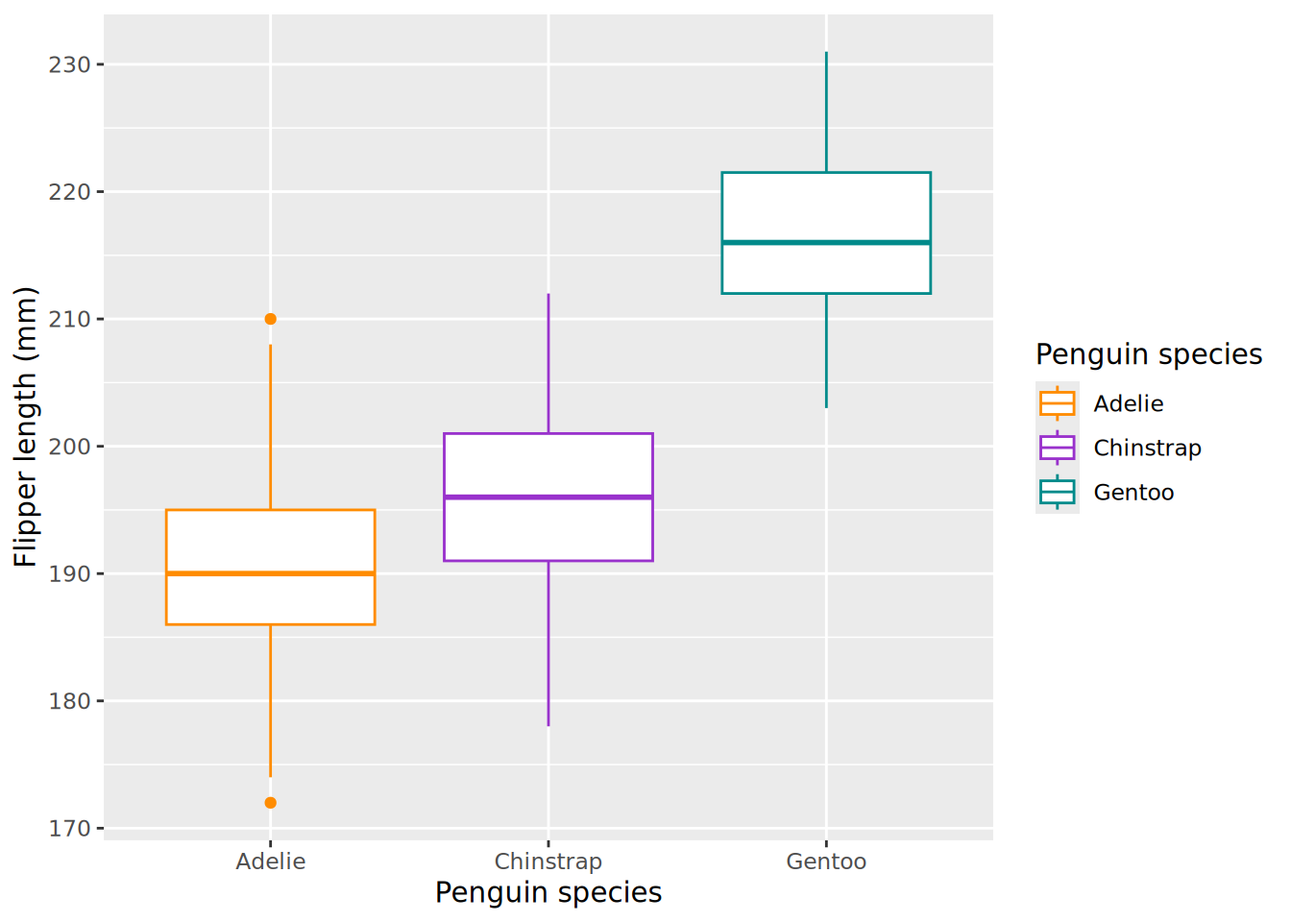
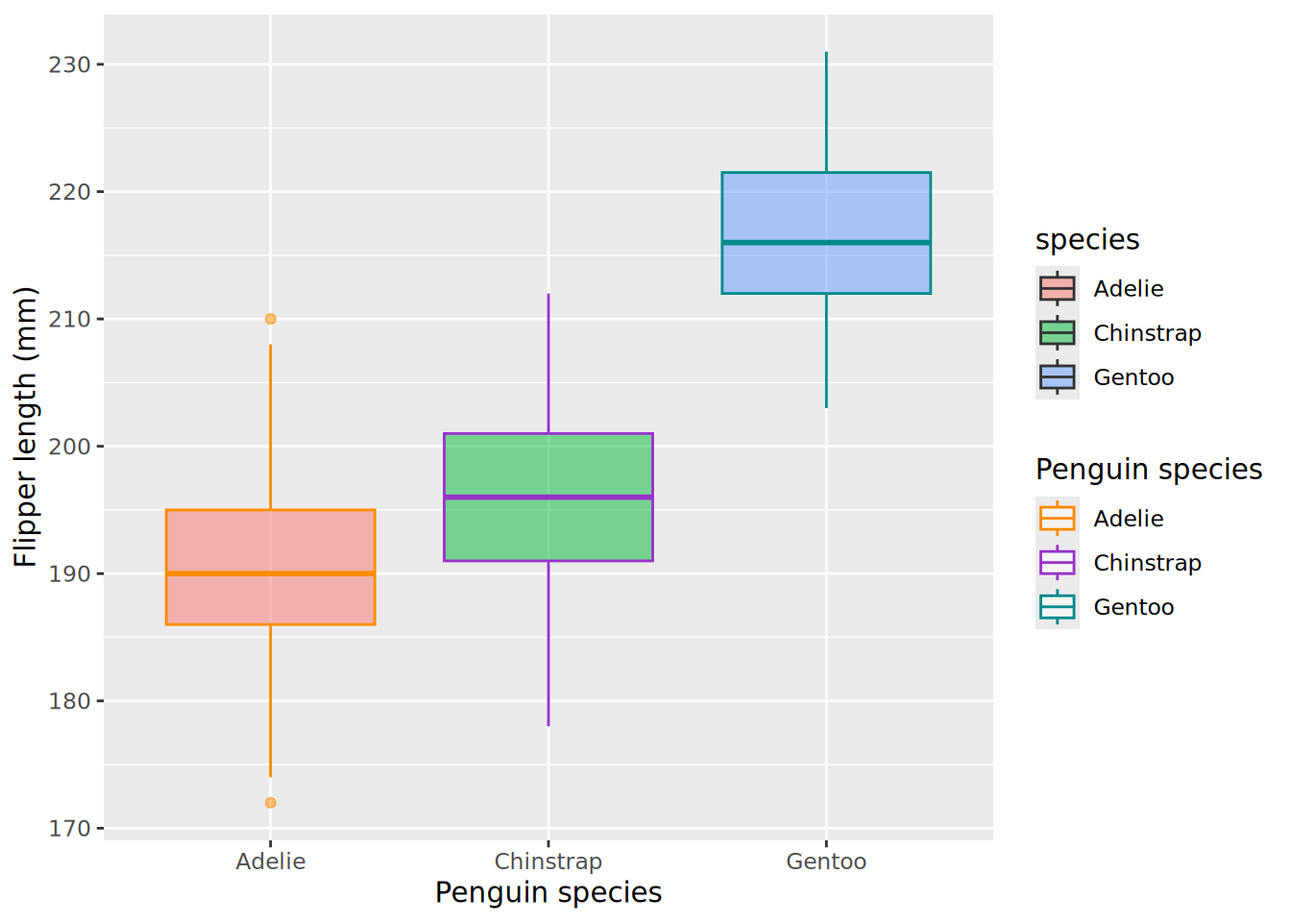
Built site for gh-pages

diff --git a/introtoR.html b/introtoR.html
@@ -222,7 +222,7 @@ pre > code.sourceCode > span > a:first-child::before { text-decoration: underlin
   <li><a href="#creating-a-document-to-write-code-in" id="toc-creating-a-document-to-write-code-in" class="nav-link" data-scroll-target="#creating-a-document-to-write-code-in">Creating a document to write code in</a></li>
   <li><a href="#taking-a-look-at-our-penguin-data" id="toc-taking-a-look-at-our-penguin-data" class="nav-link" data-scroll-target="#taking-a-look-at-our-penguin-data">Taking a look at our penguin data</a></li>
   <li><a href="#removing-na-values-with-drop_na" id="toc-removing-na-values-with-drop_na" class="nav-link" data-scroll-target="#removing-na-values-with-drop_na">Removing N/A values with <code>drop_na()</code></a></li>
-  <li><a href="#creating-plots-with-ggplot-1" id="toc-creating-plots-with-ggplot-1" class="nav-link" data-scroll-target="#creating-plots-with-ggplot-1">Creating plots with ggplot</a></li>
+  <li><a href="#creating-plots-with-ggplot2" id="toc-creating-plots-with-ggplot2" class="nav-link" data-scroll-target="#creating-plots-with-ggplot2">Creating plots with ggplot2</a></li>
   <li><a href="#ggplot-components" id="toc-ggplot-components" class="nav-link" data-scroll-target="#ggplot-components">ggplot() components</a></li>
   <li><a href="#example-creating-a-scatterplot" id="toc-example-creating-a-scatterplot" class="nav-link" data-scroll-target="#example-creating-a-scatterplot">Example: creating a scatterplot</a></li>
   <li><a href="#example-creating-a-boxplot" id="toc-example-creating-a-boxplot" class="nav-link" data-scroll-target="#example-creating-a-boxplot">Example: creating a boxplot</a></li>
@@ -463,7 +463,7 @@ $ year              &lt;int&gt; 2007, 2007, 2007, 2007, 2007, 2007, 2007, 2007, 
 </section>
 <section id="removing-na-values-with-drop_na" class="level3">
 <h3 class="anchored" data-anchor-id="removing-na-values-with-drop_na">Removing N/A values with <code>drop_na()</code></h3>
-<p>We’ve seen some N/A values in the raw data. We can remove these with the <code>drop_na()</code> function.</p>
+<p>We can see some N/A values in the raw data above. We can remove these with the <code>drop_na()</code> function.</p>
 <div class="quarto-figure quarto-figure-center">
 <figure class="figure">
 <p><img src="naniar.jpg" class="img-fluid quarto-figure quarto-figure-center figure-img"></p>
@@ -471,28 +471,23 @@ $ year              &lt;int&gt; 2007, 2007, 2007, 2007, 2007, 2007, 2007, 2007, 
 </div>
 <div class="cell">
 <div class="sourceCode cell-code" id="cb21"><pre class="sourceCode r code-with-copy"><code class="sourceCode r"><span id="cb21-1"><a href="#cb21-1" aria-hidden="true" tabindex="-1"></a>penguins_nafree <span class="ot">&lt;-</span> <span class="fu">drop_na</span>(penguins)</span>
-<span id="cb21-2"><a href="#cb21-2" aria-hidden="true" tabindex="-1"></a>penguins_nafree</span></code><button title="Copy to Clipboard" class="code-copy-button"><i class="bi"></i></button></pre></div>
+<span id="cb21-2"><a href="#cb21-2" aria-hidden="true" tabindex="-1"></a><span class="fu">glimpse</span>(penguins_nafree)</span></code><button title="Copy to Clipboard" class="code-copy-button"><i class="bi"></i></button></pre></div>
 <div class="cell-output cell-output-stdout">
-<pre><code># A tibble: 333 × 8
-   species island    bill_length_mm bill_depth_mm flipper_length_mm body_mass_g
-   &lt;fct&gt;   &lt;fct&gt;              &lt;dbl&gt;         &lt;dbl&gt;             &lt;int&gt;       &lt;int&gt;
- 1 Adelie  Torgersen           39.1          18.7               181        3750
- 2 Adelie  Torgersen           39.5          17.4               186        3800
- 3 Adelie  Torgersen           40.3          18                 195        3250
- 4 Adelie  Torgersen           36.7          19.3               193        3450
- 5 Adelie  Torgersen           39.3          20.6               190        3650
- 6 Adelie  Torgersen           38.9          17.8               181        3625
- 7 Adelie  Torgersen           39.2          19.6               195        4675
- 8 Adelie  Torgersen           41.1          17.6               182        3200
- 9 Adelie  Torgersen           38.6          21.2               191        3800
-10 Adelie  Torgersen           34.6          21.1               198        4400
-# ℹ 323 more rows
-# ℹ 2 more variables: sex &lt;fct&gt;, year &lt;int&gt;</code></pre>
+<pre><code>Rows: 333
+Columns: 8
+$ species           &lt;fct&gt; Adelie, Adelie, Adelie, Adelie, Adelie, Adelie, Adel…
+$ island            &lt;fct&gt; Torgersen, Torgersen, Torgersen, Torgersen, Torgerse…
+$ bill_length_mm    &lt;dbl&gt; 39.1, 39.5, 40.3, 36.7, 39.3, 38.9, 39.2, 41.1, 38.6…
+$ bill_depth_mm     &lt;dbl&gt; 18.7, 17.4, 18.0, 19.3, 20.6, 17.8, 19.6, 17.6, 21.2…
+$ flipper_length_mm &lt;int&gt; 181, 186, 195, 193, 190, 181, 195, 182, 191, 198, 18…
+$ body_mass_g       &lt;int&gt; 3750, 3800, 3250, 3450, 3650, 3625, 4675, 3200, 3800…
+$ sex               &lt;fct&gt; male, female, female, female, male, female, male, fe…
+$ year              &lt;int&gt; 2007, 2007, 2007, 2007, 2007, 2007, 2007, 2007, 2007…</code></pre>
 </div>
 </div>
 </section>
-<section id="creating-plots-with-ggplot-1" class="level3">
-<h3 class="anchored" data-anchor-id="creating-plots-with-ggplot-1">Creating plots with ggplot</h3>
+<section id="creating-plots-with-ggplot2" class="level3">
+<h3 class="anchored" data-anchor-id="creating-plots-with-ggplot2">Creating plots with ggplot2</h3>
 <p><code>ggplot()</code> is a function that creates plots.</p>
 <p>Like a piece of art, we start with a <strong>base canvas</strong> where we set up our framework. We then use a <code>+</code> symbol to <strong>add layers</strong> on top.</p>
 <div class="quarto-figure quarto-figure-center">
@@ -506,7 +501,7 @@ $ year              &lt;int&gt; 2007, 2007, 2007, 2007, 2007, 2007, 2007, 2007, 
 <p>Every ggplot has three components:</p>
 <ul>
 <li><code>data</code> - your filtered data, ready for visualisation.</li>
-<li><code>aes</code>thetic mappings - this defines <strong>which variables</strong> <strong>we plot.</strong></li>
+<li><code>aes</code>thetic mappings - this defines <strong>which variables</strong> <strong>we plot</strong>.</li>
 <li><code>geom</code> layer(s) - this defines how we <strong>visualise the observations</strong>.</li>
 </ul>
 <div class="quarto-figure quarto-figure-center">
@@ -537,7 +532,7 @@ $ year              &lt;int&gt; 2007, 2007, 2007, 2007, 2007, 2007, 2007, 2007, 
 <p><strong>Adding a geom layer:</strong></p>
 <div class="cell">
 <div class="sourceCode cell-code" id="cb24"><pre class="sourceCode r code-with-copy"><code class="sourceCode r"><span id="cb24-1"><a href="#cb24-1" aria-hidden="true" tabindex="-1"></a><span class="fu">ggplot</span>(<span class="at">data =</span> penguins_nafree, <span class="fu">aes</span>(<span class="at">x =</span> bill_length_mm, <span class="at">y =</span> bill_depth_mm)) <span class="sc">+</span></span>
-<span id="cb24-2"><a href="#cb24-2" aria-hidden="true" tabindex="-1"></a>  <span class="fu">geom_point</span>(<span class="at">size =</span> <span class="dv">2</span>) </span></code><button title="Copy to Clipboard" class="code-copy-button"><i class="bi"></i></button></pre></div>
+<span id="cb24-2"><a href="#cb24-2" aria-hidden="true" tabindex="-1"></a>  <span class="fu">geom_point</span>(<span class="at">size =</span> <span class="dv">2</span>) <span class="co">#geom_point() creates a scatterplot</span></span></code><button title="Copy to Clipboard" class="code-copy-button"><i class="bi"></i></button></pre></div>
 <div class="cell-output-display">
 <div>
 <figure class="figure">
@@ -549,7 +544,7 @@ $ year              &lt;int&gt; 2007, 2007, 2007, 2007, 2007, 2007, 2007, 2007, 
 <p><strong>Adding point colour and shape by species:</strong></p>
 <div class="cell">
 <div class="sourceCode cell-code" id="cb25"><pre class="sourceCode r code-with-copy"><code class="sourceCode r"><span id="cb25-1"><a href="#cb25-1" aria-hidden="true" tabindex="-1"></a><span class="fu">ggplot</span>(<span class="at">data =</span> penguins_nafree, <span class="fu">aes</span>(<span class="at">x =</span> bill_length_mm, <span class="at">y =</span> bill_depth_mm)) <span class="sc">+</span></span>
-<span id="cb25-2"><a href="#cb25-2" aria-hidden="true" tabindex="-1"></a>  <span class="fu">geom_point</span>(<span class="fu">aes</span>(<span class="at">color =</span> species, <span class="at">shape =</span> species),<span class="at">size =</span> <span class="dv">2</span>) </span></code><button title="Copy to Clipboard" class="code-copy-button"><i class="bi"></i></button></pre></div>
+<span id="cb25-2"><a href="#cb25-2" aria-hidden="true" tabindex="-1"></a>  <span class="fu">geom_point</span>(<span class="fu">aes</span>(<span class="at">color =</span> species, <span class="at">shape =</span> species),<span class="at">size =</span> <span class="dv">2</span>) <span class="co">#we can add arguments to geom_point() to specify which variables should determine color and shape</span></span></code><button title="Copy to Clipboard" class="code-copy-button"><i class="bi"></i></button></pre></div>
 <div class="cell-output-display">
 <div>
 <figure class="figure">
@@ -585,12 +580,27 @@ $ year              &lt;int&gt; 2007, 2007, 2007, 2007, 2007, 2007, 2007, 2007, 
 </div>
 </div>
 </div>
+<p><strong>Adding a theme:</strong></p>
+<div class="cell">
+<div class="sourceCode cell-code" id="cb28"><pre class="sourceCode r code-with-copy"><code class="sourceCode r"><span id="cb28-1"><a href="#cb28-1" aria-hidden="true" tabindex="-1"></a><span class="fu">ggplot</span>(<span class="at">data =</span> penguins_nafree, <span class="fu">aes</span>(<span class="at">x =</span> bill_length_mm, <span class="at">y =</span> bill_depth_mm)) <span class="sc">+</span></span>
+<span id="cb28-2"><a href="#cb28-2" aria-hidden="true" tabindex="-1"></a>  <span class="fu">geom_point</span>(<span class="fu">aes</span>(<span class="at">color =</span> species, <span class="at">shape =</span> species),<span class="at">size =</span> <span class="dv">2</span>) <span class="sc">+</span></span>
+<span id="cb28-3"><a href="#cb28-3" aria-hidden="true" tabindex="-1"></a>  <span class="fu">scale_color_manual</span>(<span class="at">values =</span> <span class="fu">c</span>(<span class="st">"darkorange"</span>,<span class="st">"darkorchid"</span>,<span class="st">"cyan4"</span>)) <span class="sc">+</span></span>
+<span id="cb28-4"><a href="#cb28-4" aria-hidden="true" tabindex="-1"></a>  <span class="fu">labs</span>(<span class="at">x=</span><span class="st">"Bill length (mm)"</span>, <span class="at">y=</span><span class="st">"Bill depth (mm)"</span>, <span class="at">color =</span> <span class="st">"Penguin species"</span>, <span class="at">shape =</span> <span class="st">"Penguin species"</span>) <span class="sc">+</span></span>
+<span id="cb28-5"><a href="#cb28-5" aria-hidden="true" tabindex="-1"></a>  <span class="fu">theme_classic</span>() <span class="co">#applying the classic theme to remove the background</span></span></code><button title="Copy to Clipboard" class="code-copy-button"><i class="bi"></i></button></pre></div>
+<div class="cell-output-display">
+<div>
+<figure class="figure">
+<p><img src="introtoR_files/figure-html/peng5.1-1.png" class="img-fluid figure-img" width="672"></p>
+</figure>
+</div>
+</div>
+</div>
 </section>
 <section id="example-creating-a-boxplot" class="level3">
 <h3 class="anchored" data-anchor-id="example-creating-a-boxplot">Example: creating a boxplot</h3>
 <p><strong>Creating the base:</strong></p>
 <div class="cell">
-<div class="sourceCode cell-code" id="cb28"><pre class="sourceCode r code-with-copy"><code class="sourceCode r"><span id="cb28-1"><a href="#cb28-1" aria-hidden="true" tabindex="-1"></a><span class="fu">ggplot</span>(<span class="at">data =</span> penguins_nafree, <span class="fu">aes</span>(<span class="at">x =</span> species, <span class="at">y =</span> flipper_length_mm))</span></code><button title="Copy to Clipboard" class="code-copy-button"><i class="bi"></i></button></pre></div>
+<div class="sourceCode cell-code" id="cb29"><pre class="sourceCode r code-with-copy"><code class="sourceCode r"><span id="cb29-1"><a href="#cb29-1" aria-hidden="true" tabindex="-1"></a><span class="fu">ggplot</span>(<span class="at">data =</span> penguins_nafree, <span class="fu">aes</span>(<span class="at">x =</span> species, <span class="at">y =</span> flipper_length_mm))</span></code><button title="Copy to Clipboard" class="code-copy-button"><i class="bi"></i></button></pre></div>
 <div class="cell-output-display">
 <div>
 <figure class="figure">
@@ -601,8 +611,8 @@ $ year              &lt;int&gt; 2007, 2007, 2007, 2007, 2007, 2007, 2007, 2007, 
 </div>
 <p><strong>Adding a geom layer:</strong></p>
 <div class="cell">
-<div class="sourceCode cell-code" id="cb29"><pre class="sourceCode r code-with-copy"><code class="sourceCode r"><span id="cb29-1"><a href="#cb29-1" aria-hidden="true" tabindex="-1"></a><span class="fu">ggplot</span>(<span class="at">data =</span> penguins_nafree, <span class="fu">aes</span>(<span class="at">x =</span> species, <span class="at">y =</span> flipper_length_mm)) <span class="sc">+</span></span>
-<span id="cb29-2"><a href="#cb29-2" aria-hidden="true" tabindex="-1"></a>  <span class="fu">geom_boxplot</span>()</span></code><button title="Copy to Clipboard" class="code-copy-button"><i class="bi"></i></button></pre></div>
+<div class="sourceCode cell-code" id="cb30"><pre class="sourceCode r code-with-copy"><code class="sourceCode r"><span id="cb30-1"><a href="#cb30-1" aria-hidden="true" tabindex="-1"></a><span class="fu">ggplot</span>(<span class="at">data =</span> penguins_nafree, <span class="fu">aes</span>(<span class="at">x =</span> species, <span class="at">y =</span> flipper_length_mm)) <span class="sc">+</span></span>
+<span id="cb30-2"><a href="#cb30-2" aria-hidden="true" tabindex="-1"></a>  <span class="fu">geom_boxplot</span>()</span></code><button title="Copy to Clipboard" class="code-copy-button"><i class="bi"></i></button></pre></div>
 <div class="cell-output-display">
 <div>
 <figure class="figure">
@@ -613,9 +623,9 @@ $ year              &lt;int&gt; 2007, 2007, 2007, 2007, 2007, 2007, 2007, 2007, 
 </div>
 <p><strong>Colouring the boxplots by species:</strong></p>
 <div class="cell">
-<div class="sourceCode cell-code" id="cb30"><pre class="sourceCode r code-with-copy"><code class="sourceCode r"><span id="cb30-1"><a href="#cb30-1" aria-hidden="true" tabindex="-1"></a><span class="fu">ggplot</span>(<span class="at">data =</span> penguins_nafree, <span class="fu">aes</span>(<span class="at">x =</span> species, <span class="at">y =</span> flipper_length_mm)) <span class="sc">+</span></span>
-<span id="cb30-2"><a href="#cb30-2" aria-hidden="true" tabindex="-1"></a>  <span class="fu">geom_boxplot</span>(<span class="fu">aes</span>(<span class="at">color=</span>species)) <span class="sc">+</span></span>
-<span id="cb30-3"><a href="#cb30-3" aria-hidden="true" tabindex="-1"></a>  <span class="fu">scale_color_manual</span>(<span class="at">values =</span> <span class="fu">c</span>(<span class="st">"darkorange"</span>,<span class="st">"darkorchid"</span>,<span class="st">"cyan4"</span>), <span class="at">name =</span> <span class="st">"Species"</span>) </span></code><button title="Copy to Clipboard" class="code-copy-button"><i class="bi"></i></button></pre></div>
+<div class="sourceCode cell-code" id="cb31"><pre class="sourceCode r code-with-copy"><code class="sourceCode r"><span id="cb31-1"><a href="#cb31-1" aria-hidden="true" tabindex="-1"></a><span class="fu">ggplot</span>(<span class="at">data =</span> penguins_nafree, <span class="fu">aes</span>(<span class="at">x =</span> species, <span class="at">y =</span> flipper_length_mm)) <span class="sc">+</span></span>
+<span id="cb31-2"><a href="#cb31-2" aria-hidden="true" tabindex="-1"></a>  <span class="fu">geom_boxplot</span>(<span class="fu">aes</span>(<span class="at">color=</span>species)) <span class="sc">+</span> <span class="co">#this sets the outline colour</span></span>
+<span id="cb31-3"><a href="#cb31-3" aria-hidden="true" tabindex="-1"></a>  <span class="fu">scale_color_manual</span>(<span class="at">values =</span> <span class="fu">c</span>(<span class="st">"darkorange"</span>,<span class="st">"darkorchid"</span>,<span class="st">"cyan4"</span>), <span class="at">name =</span> <span class="st">"Species"</span>) </span></code><button title="Copy to Clipboard" class="code-copy-button"><i class="bi"></i></button></pre></div>
 <div class="cell-output-display">
 <div>
 <figure class="figure">
@@ -624,12 +634,25 @@ $ year              &lt;int&gt; 2007, 2007, 2007, 2007, 2007, 2007, 2007, 2007, 
 </div>
 </div>
 </div>
+<p><strong>Filling the boxplots by species:</strong></p>
+<div class="cell">
+<div class="sourceCode cell-code" id="cb32"><pre class="sourceCode r code-with-copy"><code class="sourceCode r"><span id="cb32-1"><a href="#cb32-1" aria-hidden="true" tabindex="-1"></a><span class="fu">ggplot</span>(<span class="at">data =</span> penguins_nafree, <span class="fu">aes</span>(<span class="at">x =</span> species, <span class="at">y =</span> flipper_length_mm)) <span class="sc">+</span></span>
+<span id="cb32-2"><a href="#cb32-2" aria-hidden="true" tabindex="-1"></a>  <span class="fu">geom_boxplot</span>(<span class="fu">aes</span>(<span class="at">color=</span>species, <span class="at">fill=</span>species), <span class="at">alpha=</span><span class="fl">0.5</span>) <span class="sc">+</span> <span class="co">#fill sets the fill colour at 50% transparency</span></span>
+<span id="cb32-3"><a href="#cb32-3" aria-hidden="true" tabindex="-1"></a>  <span class="fu">scale_color_manual</span>(<span class="at">values =</span> <span class="fu">c</span>(<span class="st">"darkorange"</span>,<span class="st">"darkorchid"</span>,<span class="st">"cyan4"</span>), <span class="at">name =</span> <span class="st">"Species"</span>) </span></code><button title="Copy to Clipboard" class="code-copy-button"><i class="bi"></i></button></pre></div>
+<div class="cell-output-display">
+<div>
+<figure class="figure">
+<p><img src="introtoR_files/figure-html/peng8.1-1.png" class="img-fluid figure-img" width="672"></p>
+</figure>
+</div>
+</div>
+</div>
 <p><strong>Adding axis labels:</strong></p>
 <div class="cell">
-<div class="sourceCode cell-code" id="cb31"><pre class="sourceCode r code-with-copy"><code class="sourceCode r"><span id="cb31-1"><a href="#cb31-1" aria-hidden="true" tabindex="-1"></a><span class="fu">ggplot</span>(<span class="at">data =</span> penguins_nafree, <span class="fu">aes</span>(<span class="at">x =</span> species, <span class="at">y =</span> flipper_length_mm)) <span class="sc">+</span></span>
-<span id="cb31-2"><a href="#cb31-2" aria-hidden="true" tabindex="-1"></a>  <span class="fu">geom_boxplot</span>(<span class="fu">aes</span>(<span class="at">color=</span>species)) <span class="sc">+</span></span>
-<span id="cb31-3"><a href="#cb31-3" aria-hidden="true" tabindex="-1"></a>  <span class="fu">scale_color_manual</span>(<span class="at">values =</span> <span class="fu">c</span>(<span class="st">"darkorange"</span>,<span class="st">"darkorchid"</span>,<span class="st">"cyan4"</span>), <span class="at">name =</span> <span class="st">"Penguin species"</span>) <span class="sc">+</span></span>
-<span id="cb31-4"><a href="#cb31-4" aria-hidden="true" tabindex="-1"></a>  <span class="fu">labs</span>(<span class="at">x=</span><span class="st">"Penguin species"</span>, <span class="at">y=</span><span class="st">"Flipper length (mm)"</span>) </span></code><button title="Copy to Clipboard" class="code-copy-button"><i class="bi"></i></button></pre></div>
+<div class="sourceCode cell-code" id="cb33"><pre class="sourceCode r code-with-copy"><code class="sourceCode r"><span id="cb33-1"><a href="#cb33-1" aria-hidden="true" tabindex="-1"></a><span class="fu">ggplot</span>(<span class="at">data =</span> penguins_nafree, <span class="fu">aes</span>(<span class="at">x =</span> species, <span class="at">y =</span> flipper_length_mm)) <span class="sc">+</span></span>
+<span id="cb33-2"><a href="#cb33-2" aria-hidden="true" tabindex="-1"></a>  <span class="fu">geom_boxplot</span>(<span class="fu">aes</span>(<span class="at">color=</span>species, <span class="at">fill=</span>species), <span class="at">alpha=</span><span class="fl">0.5</span>) <span class="sc">+</span> <span class="co">#fill sets the fill colour at 50% transparency</span></span>
+<span id="cb33-3"><a href="#cb33-3" aria-hidden="true" tabindex="-1"></a>  <span class="fu">scale_color_manual</span>(<span class="at">values =</span> <span class="fu">c</span>(<span class="st">"darkorange"</span>,<span class="st">"darkorchid"</span>,<span class="st">"cyan4"</span>), <span class="at">name =</span> <span class="st">"Penguin species"</span>) <span class="sc">+</span></span>
+<span id="cb33-4"><a href="#cb33-4" aria-hidden="true" tabindex="-1"></a>  <span class="fu">labs</span>(<span class="at">x=</span><span class="st">"Penguin species"</span>, <span class="at">y=</span><span class="st">"Flipper length (mm)"</span>) </span></code><button title="Copy to Clipboard" class="code-copy-button"><i class="bi"></i></button></pre></div>
 <div class="cell-output-display">
 <div>
 <figure class="figure">
@@ -640,15 +663,31 @@ $ year              &lt;int&gt; 2007, 2007, 2007, 2007, 2007, 2007, 2007, 2007, 
 </div>
 <p><strong>Adding jitter points:</strong></p>
 <div class="cell">
-<div class="sourceCode cell-code" id="cb32"><pre class="sourceCode r code-with-copy"><code class="sourceCode r"><span id="cb32-1"><a href="#cb32-1" aria-hidden="true" tabindex="-1"></a><span class="fu">ggplot</span>(<span class="at">data =</span> penguins_nafree, <span class="fu">aes</span>(<span class="at">x =</span> species, <span class="at">y =</span> flipper_length_mm)) <span class="sc">+</span></span>
-<span id="cb32-2"><a href="#cb32-2" aria-hidden="true" tabindex="-1"></a>  <span class="fu">geom_boxplot</span>(<span class="fu">aes</span>(<span class="at">color=</span>species)) <span class="sc">+</span></span>
-<span id="cb32-3"><a href="#cb32-3" aria-hidden="true" tabindex="-1"></a>  <span class="fu">scale_color_manual</span>(<span class="at">values =</span> <span class="fu">c</span>(<span class="st">"darkorange"</span>,<span class="st">"darkorchid"</span>,<span class="st">"cyan4"</span>), <span class="at">name =</span> <span class="st">"Penguin species"</span>) <span class="sc">+</span></span>
-<span id="cb32-4"><a href="#cb32-4" aria-hidden="true" tabindex="-1"></a>  <span class="fu">labs</span>(<span class="at">x=</span><span class="st">"Penguin species"</span>, <span class="at">y=</span><span class="st">"Flipper length (mm)"</span>) <span class="sc">+</span></span>
-<span id="cb32-5"><a href="#cb32-5" aria-hidden="true" tabindex="-1"></a>  <span class="fu">geom_jitter</span>(<span class="fu">aes</span>(<span class="at">color =</span> species), <span class="at">alpha =</span> <span class="fl">0.5</span>)</span></code><button title="Copy to Clipboard" class="code-copy-button"><i class="bi"></i></button></pre></div>
+<div class="sourceCode cell-code" id="cb34"><pre class="sourceCode r code-with-copy"><code class="sourceCode r"><span id="cb34-1"><a href="#cb34-1" aria-hidden="true" tabindex="-1"></a><span class="fu">ggplot</span>(<span class="at">data =</span> penguins_nafree, <span class="fu">aes</span>(<span class="at">x =</span> species, <span class="at">y =</span> flipper_length_mm)) <span class="sc">+</span></span>
+<span id="cb34-2"><a href="#cb34-2" aria-hidden="true" tabindex="-1"></a>  <span class="fu">geom_boxplot</span>(<span class="fu">aes</span>(<span class="at">color=</span>species, <span class="at">fill=</span>species), <span class="at">alpha=</span><span class="fl">0.5</span>) <span class="sc">+</span> <span class="co">#fill sets the fill colour at 50% transparency</span></span>
+<span id="cb34-3"><a href="#cb34-3" aria-hidden="true" tabindex="-1"></a>  <span class="fu">scale_color_manual</span>(<span class="at">values =</span> <span class="fu">c</span>(<span class="st">"darkorange"</span>,<span class="st">"darkorchid"</span>,<span class="st">"cyan4"</span>), <span class="at">name =</span> <span class="st">"Penguin species"</span>) <span class="sc">+</span></span>
+<span id="cb34-4"><a href="#cb34-4" aria-hidden="true" tabindex="-1"></a>  <span class="fu">labs</span>(<span class="at">x=</span><span class="st">"Penguin species"</span>, <span class="at">y=</span><span class="st">"Flipper length (mm)"</span>) <span class="sc">+</span></span>
+<span id="cb34-5"><a href="#cb34-5" aria-hidden="true" tabindex="-1"></a>  <span class="fu">geom_jitter</span>(<span class="fu">aes</span>(<span class="at">color =</span> species), <span class="at">alpha =</span> <span class="fl">0.5</span>)</span></code><button title="Copy to Clipboard" class="code-copy-button"><i class="bi"></i></button></pre></div>
 <div class="cell-output-display">
 <div>
 <figure class="figure">
 <p><img src="introtoR_files/figure-html/peng10-1.png" class="img-fluid figure-img" width="672"></p>
+</figure>
+</div>
+</div>
+</div>
+<p><strong>Adding a theme:</strong></p>
+<div class="cell">
+<div class="sourceCode cell-code" id="cb35"><pre class="sourceCode r code-with-copy"><code class="sourceCode r"><span id="cb35-1"><a href="#cb35-1" aria-hidden="true" tabindex="-1"></a><span class="fu">ggplot</span>(<span class="at">data =</span> penguins_nafree, <span class="fu">aes</span>(<span class="at">x =</span> species, <span class="at">y =</span> flipper_length_mm)) <span class="sc">+</span></span>
+<span id="cb35-2"><a href="#cb35-2" aria-hidden="true" tabindex="-1"></a>  <span class="fu">geom_boxplot</span>(<span class="fu">aes</span>(<span class="at">color=</span>species, <span class="at">fill=</span>species), <span class="at">alpha=</span><span class="fl">0.5</span>) <span class="sc">+</span> <span class="co">#fill sets the fill colour at 50% transparency</span></span>
+<span id="cb35-3"><a href="#cb35-3" aria-hidden="true" tabindex="-1"></a>  <span class="fu">scale_color_manual</span>(<span class="at">values =</span> <span class="fu">c</span>(<span class="st">"darkorange"</span>,<span class="st">"darkorchid"</span>,<span class="st">"cyan4"</span>), <span class="at">name =</span> <span class="st">"Penguin species"</span>) <span class="sc">+</span></span>
+<span id="cb35-4"><a href="#cb35-4" aria-hidden="true" tabindex="-1"></a>  <span class="fu">labs</span>(<span class="at">x=</span><span class="st">"Penguin species"</span>, <span class="at">y=</span><span class="st">"Flipper length (mm)"</span>) <span class="sc">+</span></span>
+<span id="cb35-5"><a href="#cb35-5" aria-hidden="true" tabindex="-1"></a>  <span class="fu">geom_jitter</span>(<span class="fu">aes</span>(<span class="at">color =</span> species), <span class="at">alpha =</span> <span class="fl">0.5</span>) <span class="sc">+</span> </span>
+<span id="cb35-6"><a href="#cb35-6" aria-hidden="true" tabindex="-1"></a>  <span class="fu">theme_classic</span>() </span></code><button title="Copy to Clipboard" class="code-copy-button"><i class="bi"></i></button></pre></div>
+<div class="cell-output-display">
+<div>
+<figure class="figure">
+<p><img src="introtoR_files/figure-html/peng10.1-1.png" class="img-fluid figure-img" width="672"></p>
 </figure>
 </div>
 </div>
@@ -658,7 +697,7 @@ $ year              &lt;int&gt; 2007, 2007, 2007, 2007, 2007, 2007, 2007, 2007, 
 <h3 class="anchored" data-anchor-id="example-creating-a-barplot">Example: Creating a barplot</h3>
 <p><strong>Creating the base:</strong></p>
 <div class="cell">
-<div class="sourceCode cell-code" id="cb33"><pre class="sourceCode r code-with-copy"><code class="sourceCode r"><span id="cb33-1"><a href="#cb33-1" aria-hidden="true" tabindex="-1"></a><span class="fu">ggplot</span>(<span class="at">data =</span> penguins_nafree, <span class="fu">aes</span>(<span class="at">x =</span> species))</span></code><button title="Copy to Clipboard" class="code-copy-button"><i class="bi"></i></button></pre></div>
+<div class="sourceCode cell-code" id="cb36"><pre class="sourceCode r code-with-copy"><code class="sourceCode r"><span id="cb36-1"><a href="#cb36-1" aria-hidden="true" tabindex="-1"></a><span class="fu">ggplot</span>(<span class="at">data =</span> penguins_nafree, <span class="fu">aes</span>(<span class="at">x =</span> species))</span></code><button title="Copy to Clipboard" class="code-copy-button"><i class="bi"></i></button></pre></div>
 <div class="cell-output-display">
 <div>
 <figure class="figure">
@@ -669,8 +708,8 @@ $ year              &lt;int&gt; 2007, 2007, 2007, 2007, 2007, 2007, 2007, 2007, 
 </div>
 <p><strong>Adding a geom layer:</strong></p>
 <div class="cell">
-<div class="sourceCode cell-code" id="cb34"><pre class="sourceCode r code-with-copy"><code class="sourceCode r"><span id="cb34-1"><a href="#cb34-1" aria-hidden="true" tabindex="-1"></a><span class="fu">ggplot</span>(<span class="at">data =</span> penguins_nafree, <span class="fu">aes</span>(<span class="at">x =</span> species)) <span class="sc">+</span></span>
-<span id="cb34-2"><a href="#cb34-2" aria-hidden="true" tabindex="-1"></a>  <span class="fu">geom_bar</span>(<span class="fu">aes</span>(<span class="at">fill=</span>sex),<span class="at">position=</span><span class="st">"dodge"</span>)</span></code><button title="Copy to Clipboard" class="code-copy-button"><i class="bi"></i></button></pre></div>
+<div class="sourceCode cell-code" id="cb37"><pre class="sourceCode r code-with-copy"><code class="sourceCode r"><span id="cb37-1"><a href="#cb37-1" aria-hidden="true" tabindex="-1"></a><span class="fu">ggplot</span>(<span class="at">data =</span> penguins_nafree, <span class="fu">aes</span>(<span class="at">x =</span> species)) <span class="sc">+</span></span>
+<span id="cb37-2"><a href="#cb37-2" aria-hidden="true" tabindex="-1"></a>  <span class="fu">geom_bar</span>(<span class="fu">aes</span>(<span class="at">fill=</span>sex),<span class="at">position=</span><span class="st">"dodge"</span>)</span></code><button title="Copy to Clipboard" class="code-copy-button"><i class="bi"></i></button></pre></div>
 <div class="cell-output-display">
 <div>
 <figure class="figure">
@@ -681,9 +720,9 @@ $ year              &lt;int&gt; 2007, 2007, 2007, 2007, 2007, 2007, 2007, 2007, 
 </div>
 <p><strong>Faceting by a variable:</strong></p>
 <div class="cell">
-<div class="sourceCode cell-code" id="cb35"><pre class="sourceCode r code-with-copy"><code class="sourceCode r"><span id="cb35-1"><a href="#cb35-1" aria-hidden="true" tabindex="-1"></a><span class="fu">ggplot</span>(<span class="at">data =</span> penguins_nafree, <span class="fu">aes</span>(<span class="at">x =</span> species)) <span class="sc">+</span></span>
-<span id="cb35-2"><a href="#cb35-2" aria-hidden="true" tabindex="-1"></a>  <span class="fu">geom_bar</span>(<span class="fu">aes</span>(<span class="at">fill=</span>sex),<span class="at">position=</span><span class="st">"dodge"</span>) <span class="sc">+</span></span>
-<span id="cb35-3"><a href="#cb35-3" aria-hidden="true" tabindex="-1"></a>  <span class="fu">facet_wrap</span>(<span class="sc">~</span>island)</span></code><button title="Copy to Clipboard" class="code-copy-button"><i class="bi"></i></button></pre></div>
+<div class="sourceCode cell-code" id="cb38"><pre class="sourceCode r code-with-copy"><code class="sourceCode r"><span id="cb38-1"><a href="#cb38-1" aria-hidden="true" tabindex="-1"></a><span class="fu">ggplot</span>(<span class="at">data =</span> penguins_nafree, <span class="fu">aes</span>(<span class="at">x =</span> species)) <span class="sc">+</span></span>
+<span id="cb38-2"><a href="#cb38-2" aria-hidden="true" tabindex="-1"></a>  <span class="fu">geom_bar</span>(<span class="fu">aes</span>(<span class="at">fill=</span>sex),<span class="at">position=</span><span class="st">"dodge"</span>) <span class="sc">+</span></span>
+<span id="cb38-3"><a href="#cb38-3" aria-hidden="true" tabindex="-1"></a>  <span class="fu">facet_wrap</span>(<span class="sc">~</span>island)</span></code><button title="Copy to Clipboard" class="code-copy-button"><i class="bi"></i></button></pre></div>
 <div class="cell-output-display">
 <div>
 <figure class="figure">
@@ -694,10 +733,10 @@ $ year              &lt;int&gt; 2007, 2007, 2007, 2007, 2007, 2007, 2007, 2007, 
 </div>
 <p><strong>Colouring the bars by sex:</strong></p>
 <div class="cell">
-<div class="sourceCode cell-code" id="cb36"><pre class="sourceCode r code-with-copy"><code class="sourceCode r"><span id="cb36-1"><a href="#cb36-1" aria-hidden="true" tabindex="-1"></a><span class="fu">ggplot</span>(<span class="at">data =</span> penguins_nafree, <span class="fu">aes</span>(<span class="at">x =</span> species)) <span class="sc">+</span></span>
-<span id="cb36-2"><a href="#cb36-2" aria-hidden="true" tabindex="-1"></a>  <span class="fu">geom_bar</span>(<span class="fu">aes</span>(<span class="at">fill=</span>sex),<span class="at">position=</span><span class="st">"dodge"</span>) <span class="sc">+</span></span>
-<span id="cb36-3"><a href="#cb36-3" aria-hidden="true" tabindex="-1"></a>  <span class="fu">facet_wrap</span>(<span class="sc">~</span>island) <span class="sc">+</span></span>
-<span id="cb36-4"><a href="#cb36-4" aria-hidden="true" tabindex="-1"></a>  <span class="fu">scale_fill_manual</span>(<span class="at">values =</span> <span class="fu">c</span>(<span class="st">"lightpink1"</span>, <span class="st">"skyblue1"</span>), <span class="at">name =</span> <span class="st">"Sex"</span>) </span></code><button title="Copy to Clipboard" class="code-copy-button"><i class="bi"></i></button></pre></div>
+<div class="sourceCode cell-code" id="cb39"><pre class="sourceCode r code-with-copy"><code class="sourceCode r"><span id="cb39-1"><a href="#cb39-1" aria-hidden="true" tabindex="-1"></a><span class="fu">ggplot</span>(<span class="at">data =</span> penguins_nafree, <span class="fu">aes</span>(<span class="at">x =</span> species)) <span class="sc">+</span></span>
+<span id="cb39-2"><a href="#cb39-2" aria-hidden="true" tabindex="-1"></a>  <span class="fu">geom_bar</span>(<span class="fu">aes</span>(<span class="at">fill=</span>sex),<span class="at">position=</span><span class="st">"dodge"</span>) <span class="sc">+</span></span>
+<span id="cb39-3"><a href="#cb39-3" aria-hidden="true" tabindex="-1"></a>  <span class="fu">facet_wrap</span>(<span class="sc">~</span>island) <span class="sc">+</span></span>
+<span id="cb39-4"><a href="#cb39-4" aria-hidden="true" tabindex="-1"></a>  <span class="fu">scale_fill_manual</span>(<span class="at">values =</span> <span class="fu">c</span>(<span class="st">"lightpink1"</span>, <span class="st">"skyblue1"</span>), <span class="at">name =</span> <span class="st">"Sex"</span>) </span></code><button title="Copy to Clipboard" class="code-copy-button"><i class="bi"></i></button></pre></div>
 <div class="cell-output-display">
 <div>
 <figure class="figure">
@@ -708,12 +747,12 @@ $ year              &lt;int&gt; 2007, 2007, 2007, 2007, 2007, 2007, 2007, 2007, 
 </div>
 <p><strong>Adding labels and a theme:</strong></p>
 <div class="cell">
-<div class="sourceCode cell-code" id="cb37"><pre class="sourceCode r code-with-copy"><code class="sourceCode r"><span id="cb37-1"><a href="#cb37-1" aria-hidden="true" tabindex="-1"></a><span class="fu">ggplot</span>(<span class="at">data =</span> penguins_nafree, <span class="fu">aes</span>(<span class="at">x =</span> species)) <span class="sc">+</span></span>
-<span id="cb37-2"><a href="#cb37-2" aria-hidden="true" tabindex="-1"></a>  <span class="fu">geom_bar</span>(<span class="fu">aes</span>(<span class="at">fill=</span>sex),<span class="at">position=</span><span class="st">"dodge"</span>) <span class="sc">+</span></span>
-<span id="cb37-3"><a href="#cb37-3" aria-hidden="true" tabindex="-1"></a>  <span class="fu">facet_wrap</span>(<span class="sc">~</span>island) <span class="sc">+</span></span>
-<span id="cb37-4"><a href="#cb37-4" aria-hidden="true" tabindex="-1"></a>  <span class="fu">scale_fill_manual</span>(<span class="at">values =</span> <span class="fu">c</span>(<span class="st">"lightpink1"</span>, <span class="st">"skyblue1"</span>), <span class="at">name =</span> <span class="st">"Sex"</span>) <span class="sc">+</span></span>
-<span id="cb37-5"><a href="#cb37-5" aria-hidden="true" tabindex="-1"></a>  <span class="fu">labs</span>(<span class="at">y=</span><span class="st">"Frequency"</span>, <span class="at">x=</span><span class="st">"Penguin species"</span>) <span class="sc">+</span></span>
-<span id="cb37-6"><a href="#cb37-6" aria-hidden="true" tabindex="-1"></a>  <span class="fu">theme_bw</span>()</span></code><button title="Copy to Clipboard" class="code-copy-button"><i class="bi"></i></button></pre></div>
+<div class="sourceCode cell-code" id="cb40"><pre class="sourceCode r code-with-copy"><code class="sourceCode r"><span id="cb40-1"><a href="#cb40-1" aria-hidden="true" tabindex="-1"></a><span class="fu">ggplot</span>(<span class="at">data =</span> penguins_nafree, <span class="fu">aes</span>(<span class="at">x =</span> species)) <span class="sc">+</span></span>
+<span id="cb40-2"><a href="#cb40-2" aria-hidden="true" tabindex="-1"></a>  <span class="fu">geom_bar</span>(<span class="fu">aes</span>(<span class="at">fill=</span>sex),<span class="at">position=</span><span class="st">"dodge"</span>) <span class="sc">+</span></span>
+<span id="cb40-3"><a href="#cb40-3" aria-hidden="true" tabindex="-1"></a>  <span class="fu">facet_wrap</span>(<span class="sc">~</span>island) <span class="sc">+</span></span>
+<span id="cb40-4"><a href="#cb40-4" aria-hidden="true" tabindex="-1"></a>  <span class="fu">scale_fill_manual</span>(<span class="at">values =</span> <span class="fu">c</span>(<span class="st">"lightpink1"</span>, <span class="st">"skyblue1"</span>), <span class="at">name =</span> <span class="st">"Sex"</span>) <span class="sc">+</span></span>
+<span id="cb40-5"><a href="#cb40-5" aria-hidden="true" tabindex="-1"></a>  <span class="fu">labs</span>(<span class="at">y=</span><span class="st">"Frequency"</span>, <span class="at">x=</span><span class="st">"Penguin species"</span>) <span class="sc">+</span></span>
+<span id="cb40-6"><a href="#cb40-6" aria-hidden="true" tabindex="-1"></a>  <span class="fu">theme_bw</span>() <span class="co">#adding the black and white theme</span></span></code><button title="Copy to Clipboard" class="code-copy-button"><i class="bi"></i></button></pre></div>
 <div class="cell-output-display">
 <div>
 <figure class="figure">
